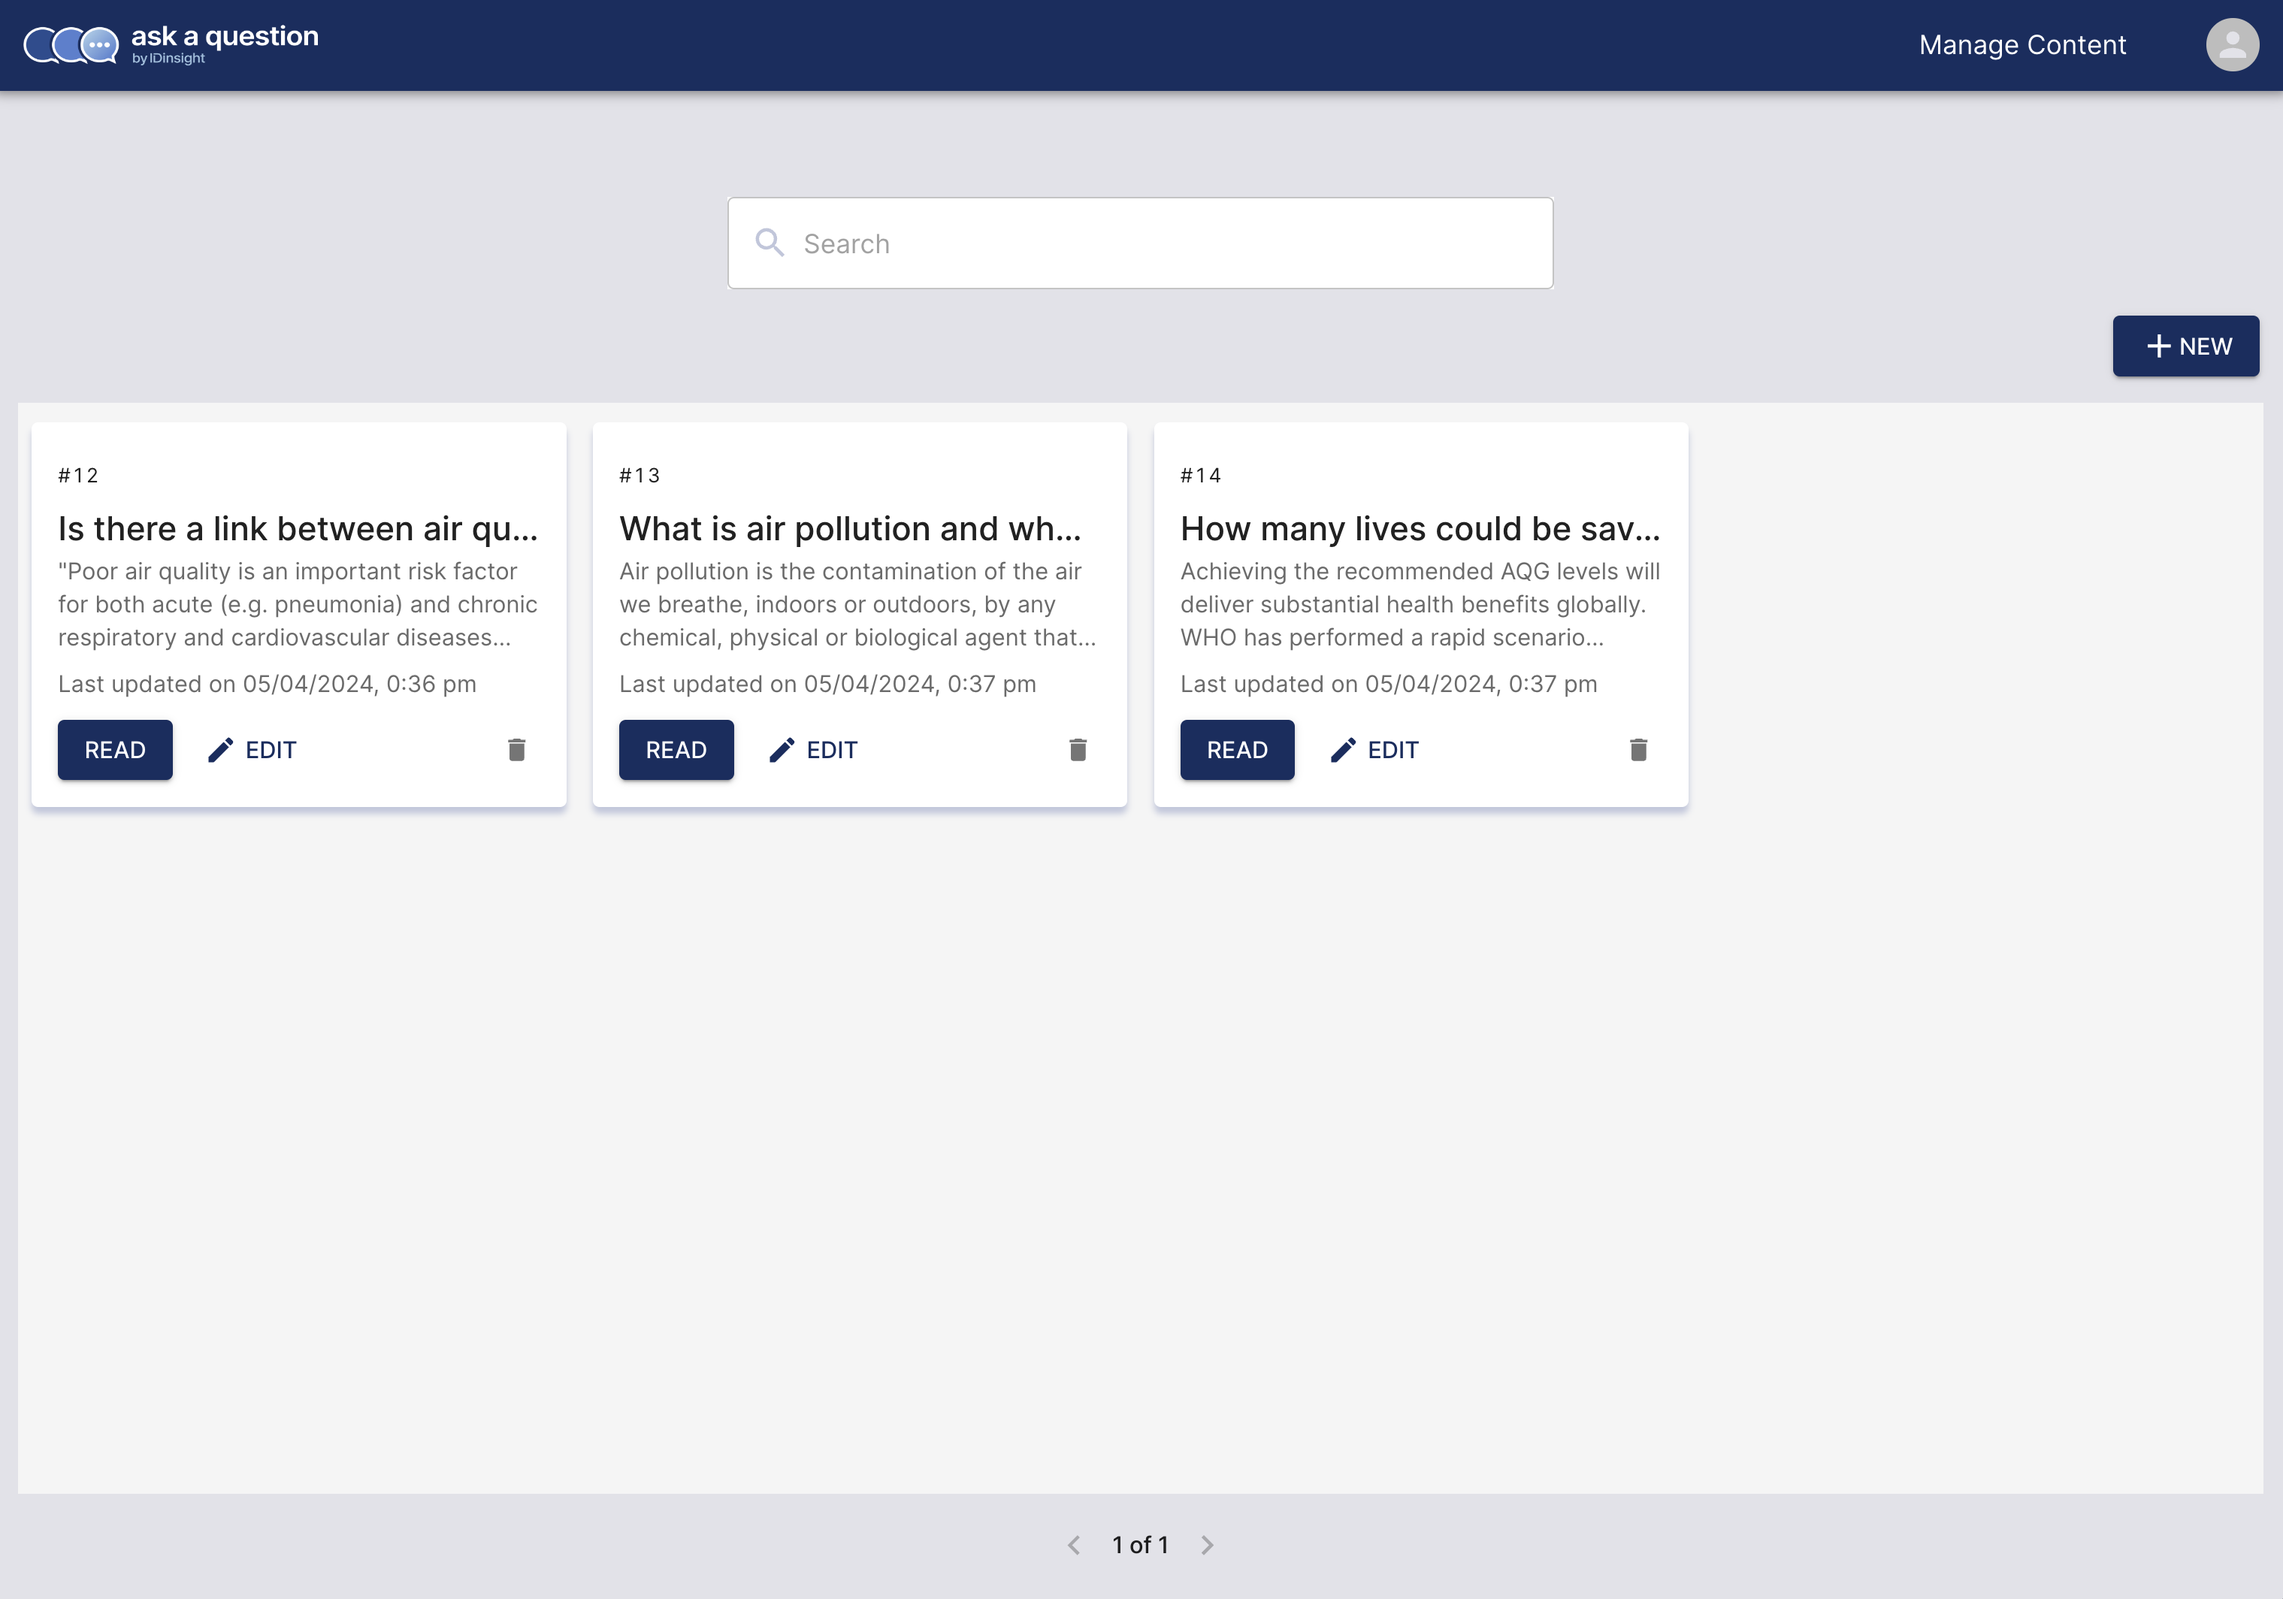
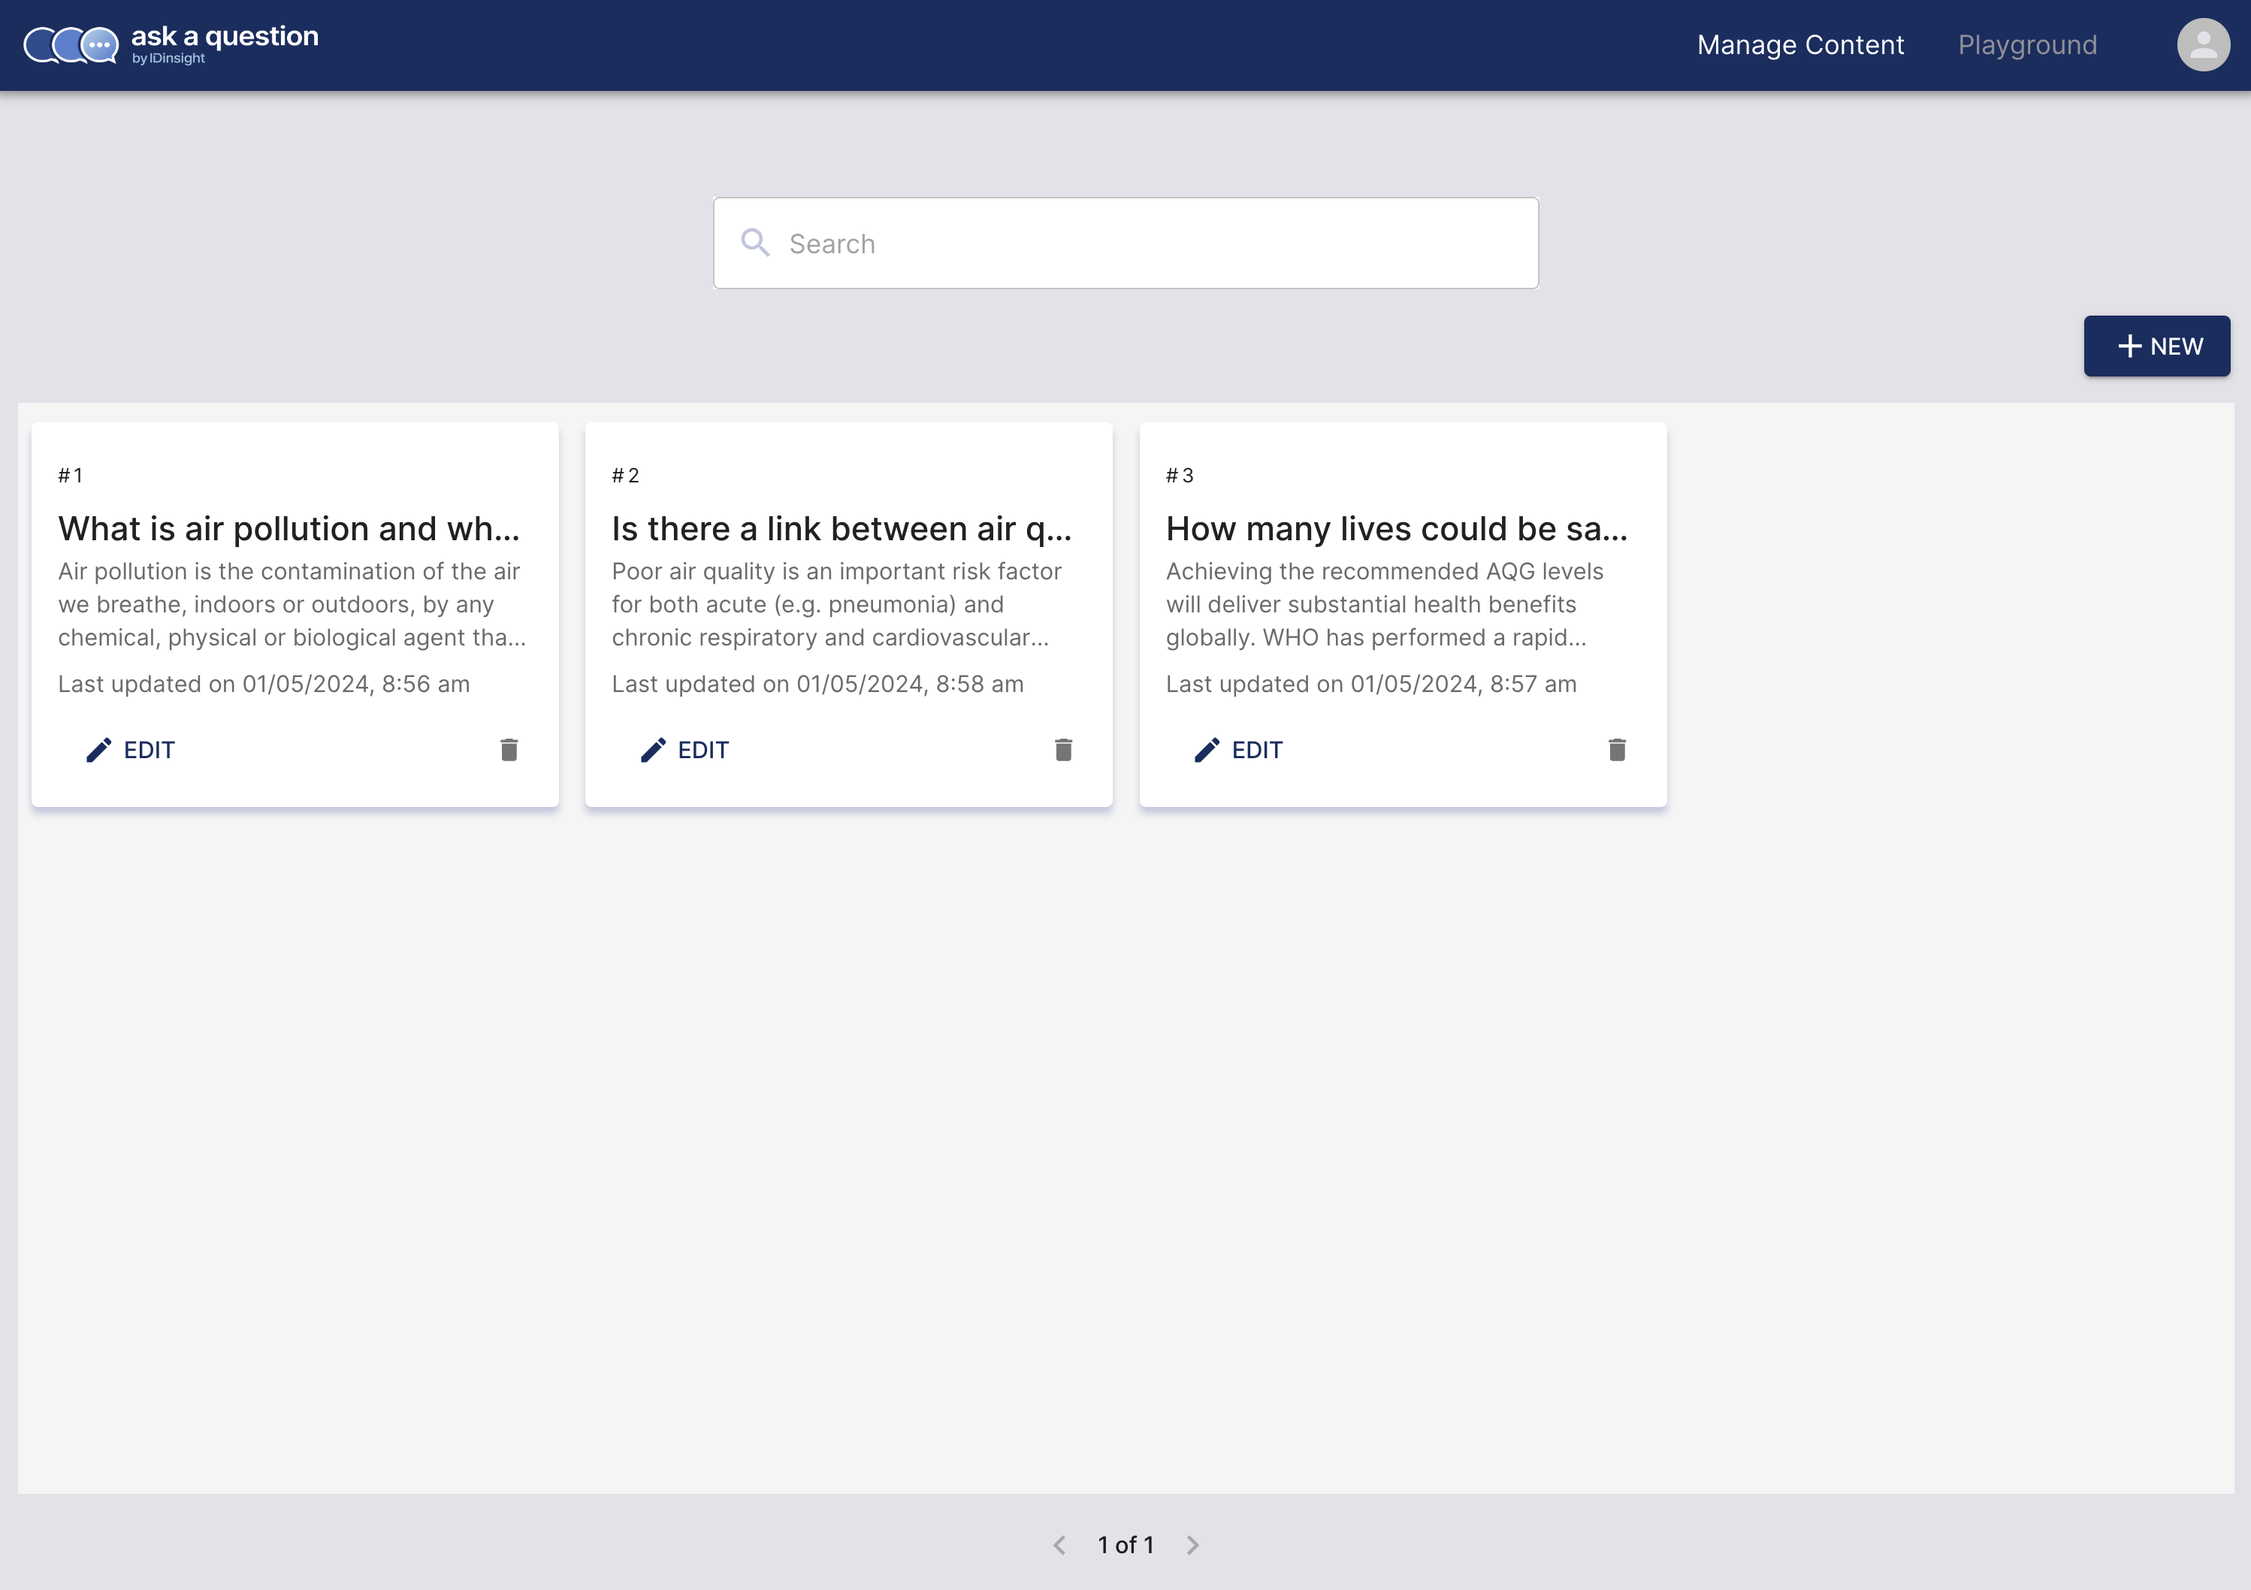
Hotfix: Remove "Read" button on cards. Clicking anywhere on card now opens the modal. (#184)
* show read modal on click on card not read button

* remove unused import

* Add a spicy card lift animation

* More subtle hover shadows

* Update docs screenshot

---------

diff --git a/admin_app/src/components/ContentCard.tsx b/admin_app/src/components/ContentCard.tsx
@@ -38,14 +38,17 @@ const ContentCard = ({
   return (
     <>
       <Card
+        onClick={() => setOpenReadModal(true)}
         sx={[
           {
+            cursor: "pointer",
             m: sizes.smallGap,
             p: sizes.baseGap,
             display: "flex",
             flexDirection: "column",
             justifyContent: "space-between",
           },
+          appStyles.hoverShadow,
           appStyles.shadow,
         ]}
       >
@@ -82,9 +85,6 @@ const ContentCard = ({
           gap={sizes.tinyGap}
           sx={{ alignItems: "center" }}
         >
-          <Button variant="contained" onClick={() => setOpenReadModal(true)}>
-            Read
-          </Button>
           <Layout.Spacer horizontal multiplier={0.2} />
           <Button
             disabled={!editAccess}

diff --git a/admin_app/src/utils/index.ts b/admin_app/src/utils/index.ts
@@ -68,6 +68,12 @@ export const appStyles = {
   shadow: {
     boxShadow: `0px 4px 4px ${appColors.grey}`,
   },
+  hoverShadow: {
+    transition: "box-shadow 0.15s ease-in-out", // faster transition
+    "&:hover": {
+      boxShadow: `0px 6.5px 6.5px ${appColors.grey}`,
+    },
+  },
   noShadow: {
     boxShadow: "none",
   },
